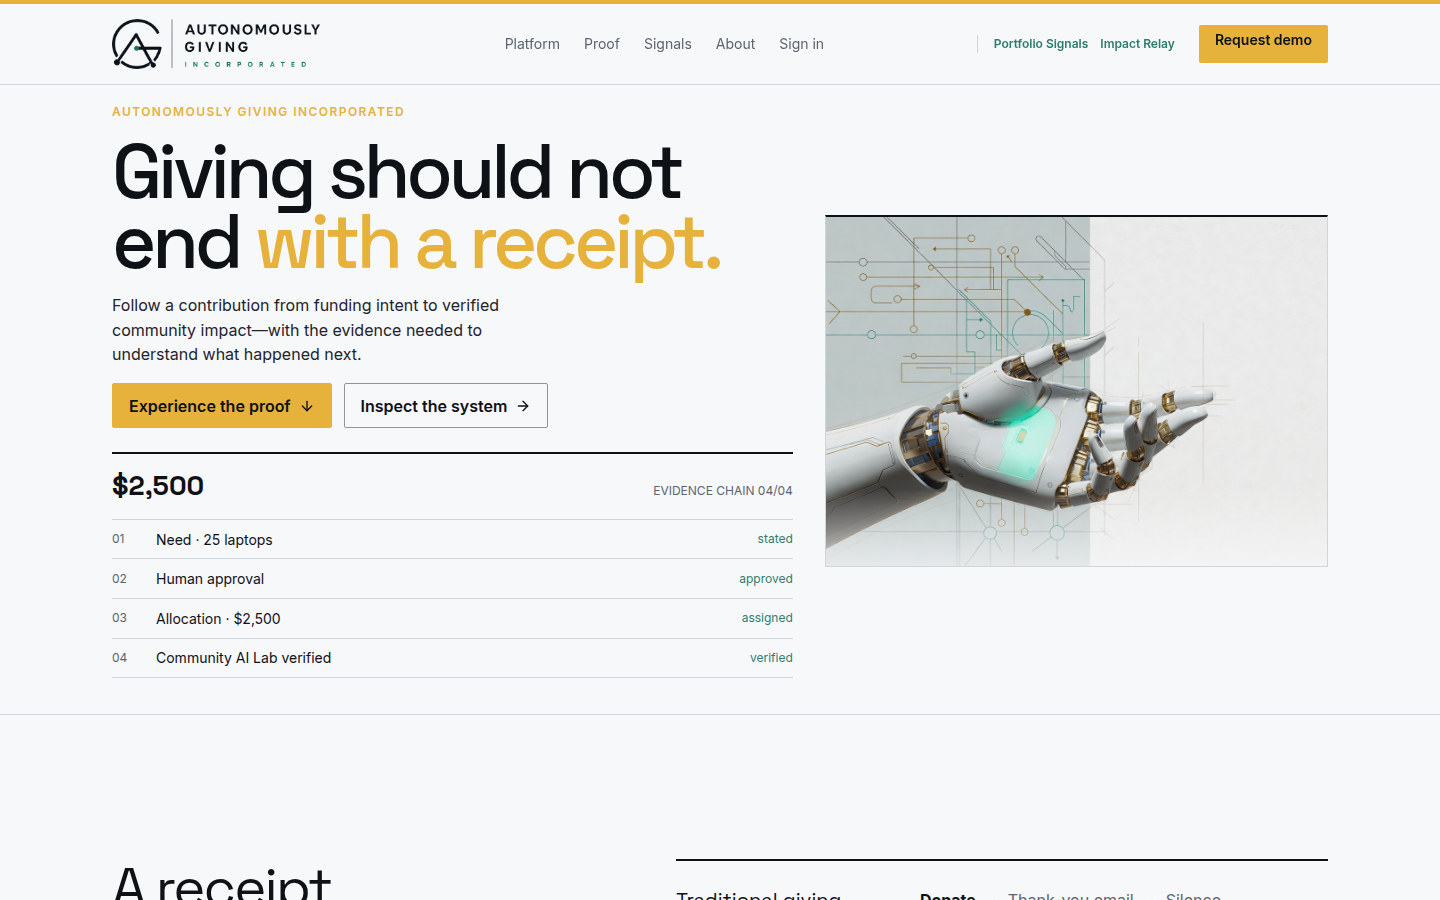
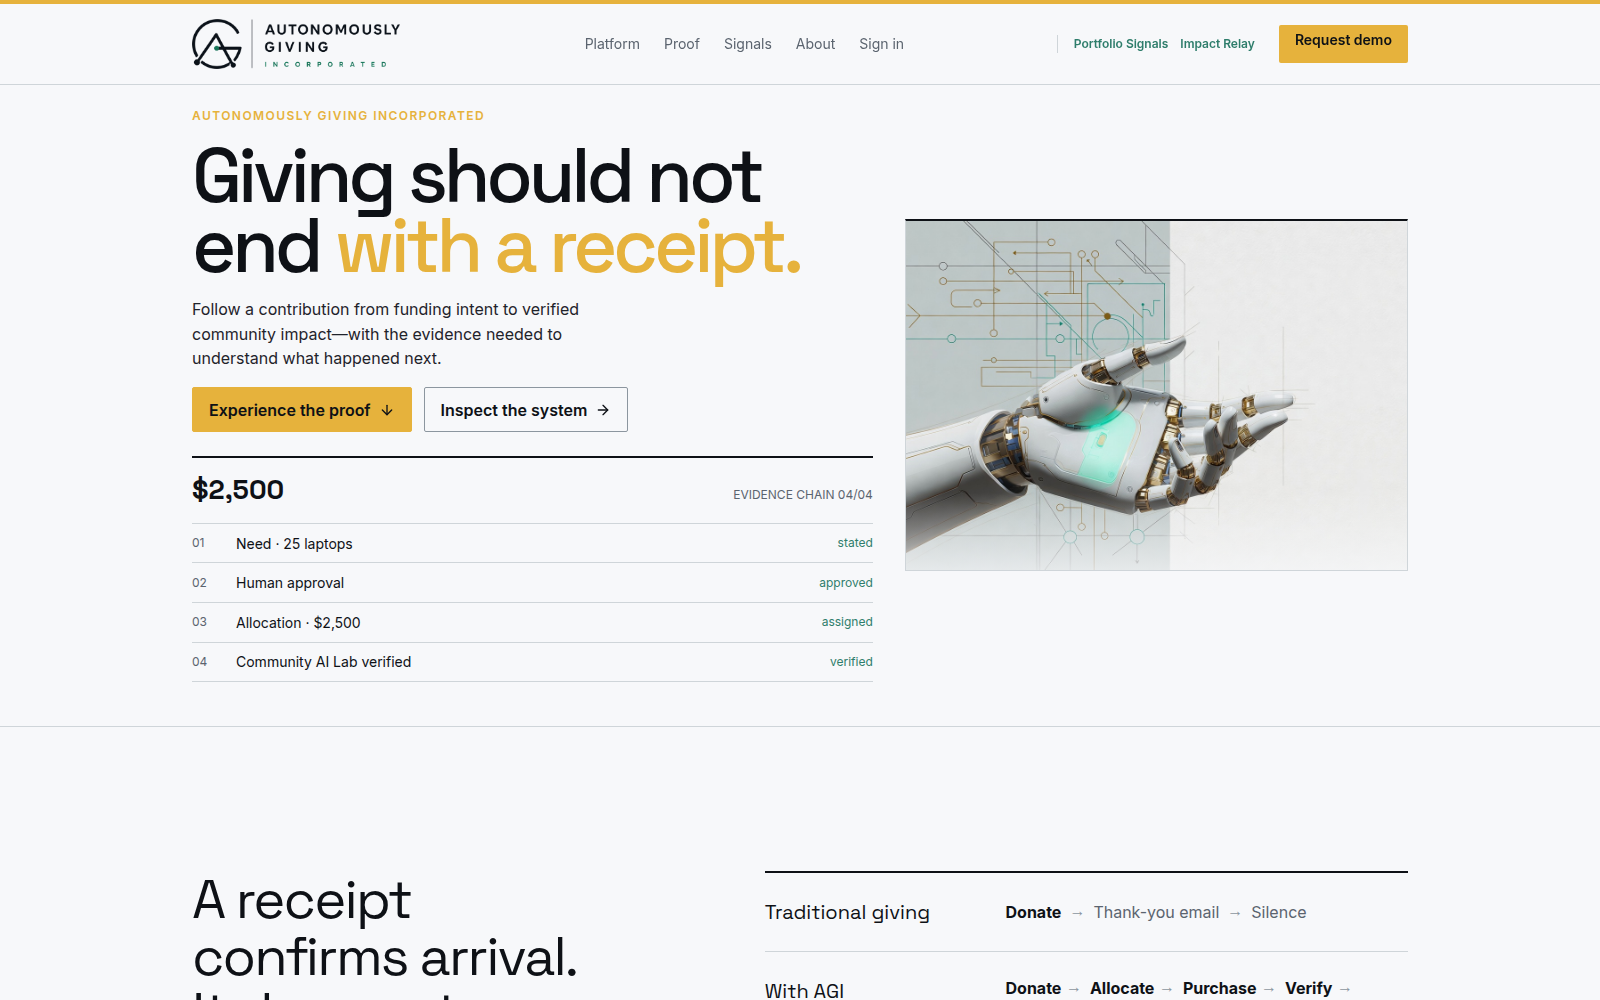
Use a live Autogive.app homepage screenshot as the Clients graphic.
Crop the captured hero to the 16:10 portfolio-card ratio and align
card copy, alt text, and the client page with the public homepage.

diff --git a/clients/autogive.html b/clients/autogive.html
@@ -2,9 +2,9 @@
 <html lang="en">
 <head>
 <meta charset="utf-8"><meta name="viewport" content="width=device-width,initial-scale=1">
-<meta name="description" content="Autogive.app, a Zero State client, follows a contribution from funding intent to verified community impact and makes that journey inspectable.">
+<meta name="description" content="Autogive.app is the public product of Autonomously Giving Incorporated. Follow a contribution from funding intent to verified community impact—with the evidence needed to understand what happened next.">
 <meta name="theme-color" content="#0c100f">
-<title>Autogive.app — Client — Zero State</title>
+<title>Autonomously Giving Incorporated — Autogive.app — Zero State</title>
 <link rel="canonical" href="https://zer0state.com/clients/autogive.html">
 <link rel="icon" href="../assets/danny-email-bundle/retina/zero_state_mark_3_retina.png" type="image/png">
 <link rel="stylesheet" href="../styles-dark.css">
@@ -26,13 +26,13 @@
 
 <main id="main" class="product-main">
   <section class="page-hero shell product-hero">
-    <p class="eyebrow">Client · giving transparency</p>
+    <p class="eyebrow">Client · Autogive.app</p>
     <h1>Autogive.app</h1>
     <p class="hero-lede">Giving should not end with a receipt.</p>
     <p class="status">Live site · demonstration evidence</p>
     <p><a class="text-link" href="https://autogive.app" target="_blank" rel="noopener noreferrer">Open Autogive.app <span aria-hidden="true">↗</span></a></p>
     <figure class="product-hero-stage autogive-hero">
-      <img src="../assets/clients/autogive-hero.png" alt="Autogive.app homepage hero: Giving should not end with a receipt" width="1440" height="900" loading="eager" decoding="async">
+      <img src="../assets/clients/autogive-hero.png" alt="Autogive.app homepage for Autonomously Giving Incorporated. Hero headline: Giving should not end with a receipt. Beside it, a robotic-hand graphic; below, an evidence-chain preview." width="1600" height="1000" loading="eager" decoding="async">
     </figure>
   </section>
 
@@ -40,7 +40,7 @@
     <div class="product-detail"><div class="split">
       <h2>What it is</h2>
       <div>
-        <p>Autogive.app is the public product of Autonomously Giving Incorporated. It follows a contribution from funding intent to verified community impact—with the evidence needed to understand what happened next.</p>
+        <p>Autogive.app is the public product of Autonomously Giving Incorporated. Follow a contribution from funding intent to verified community impact—with the evidence needed to understand what happened next.</p>
         <p>Zero State lists Autogive as client work. Autogive is not a Zero State product. Zero State does not process donations.</p>
         <p><a class="text-link" href="https://autogive.app" target="_blank" rel="noopener noreferrer">Open Autogive.app <span aria-hidden="true">↗</span></a></p>
       </div>

diff --git a/work.html b/work.html
@@ -147,12 +147,12 @@
     <div class="portfolio-grid">
       <a class="portfolio-card" href="clients/autogive.html">
         <div class="portfolio-media">
-          <img src="assets/clients/autogive-hero.png" alt="Autogive.app homepage hero: Giving should not end with a receipt" width="1440" height="900" loading="lazy" decoding="async">
+          <img src="assets/clients/autogive-hero.png" alt="Autogive.app homepage for Autonomously Giving Incorporated. Hero headline: Giving should not end with a receipt. Beside it, a robotic-hand graphic; below, an evidence-chain preview." width="1600" height="1000" loading="lazy" decoding="async">
         </div>
         <div class="portfolio-body">
           <span class="portfolio-meta">Giving transparency</span>
           <h3 class="portfolio-title">Autogive.app</h3>
-          <p class="portfolio-desc">Autogive.app (Autonomously Giving Incorporated) follows a contribution from funding intent to verified community impact, and makes that journey inspectable.</p>
+          <p class="portfolio-desc">Autonomously Giving Incorporated follows a contribution from funding intent to verified community impact—with the evidence needed to understand what happened next.</p>
           <p class="portfolio-status">Live site · demonstration evidence</p>
         </div>
       </a>

diff --git a/products/dark-product.css b/products/dark-product.css
@@ -193,7 +193,7 @@ body.dark-product-page {
 .surveillance-survivor-hero { aspect-ratio: 1280 / 640; }
 .waykin-hero { aspect-ratio: 1024 / 1024; }
 .slosh-hero { aspect-ratio: 416 / 496; }
-.autogive-hero { aspect-ratio: 1440 / 900; }
+.autogive-hero { aspect-ratio: 1600 / 1000; }
 
 .marigold-hero,
 .hexwire-hero,
